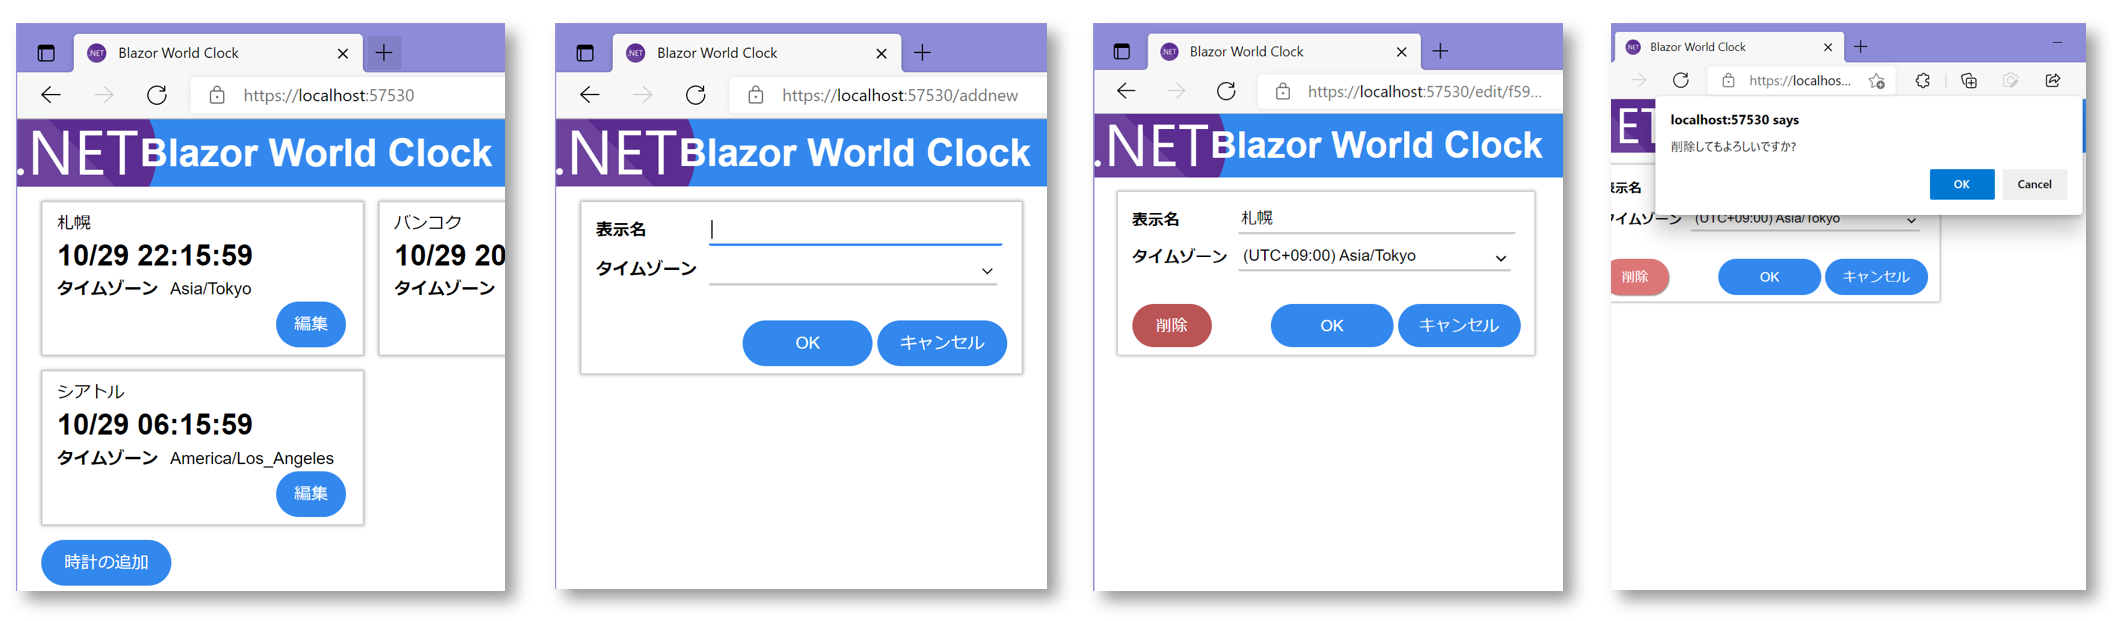
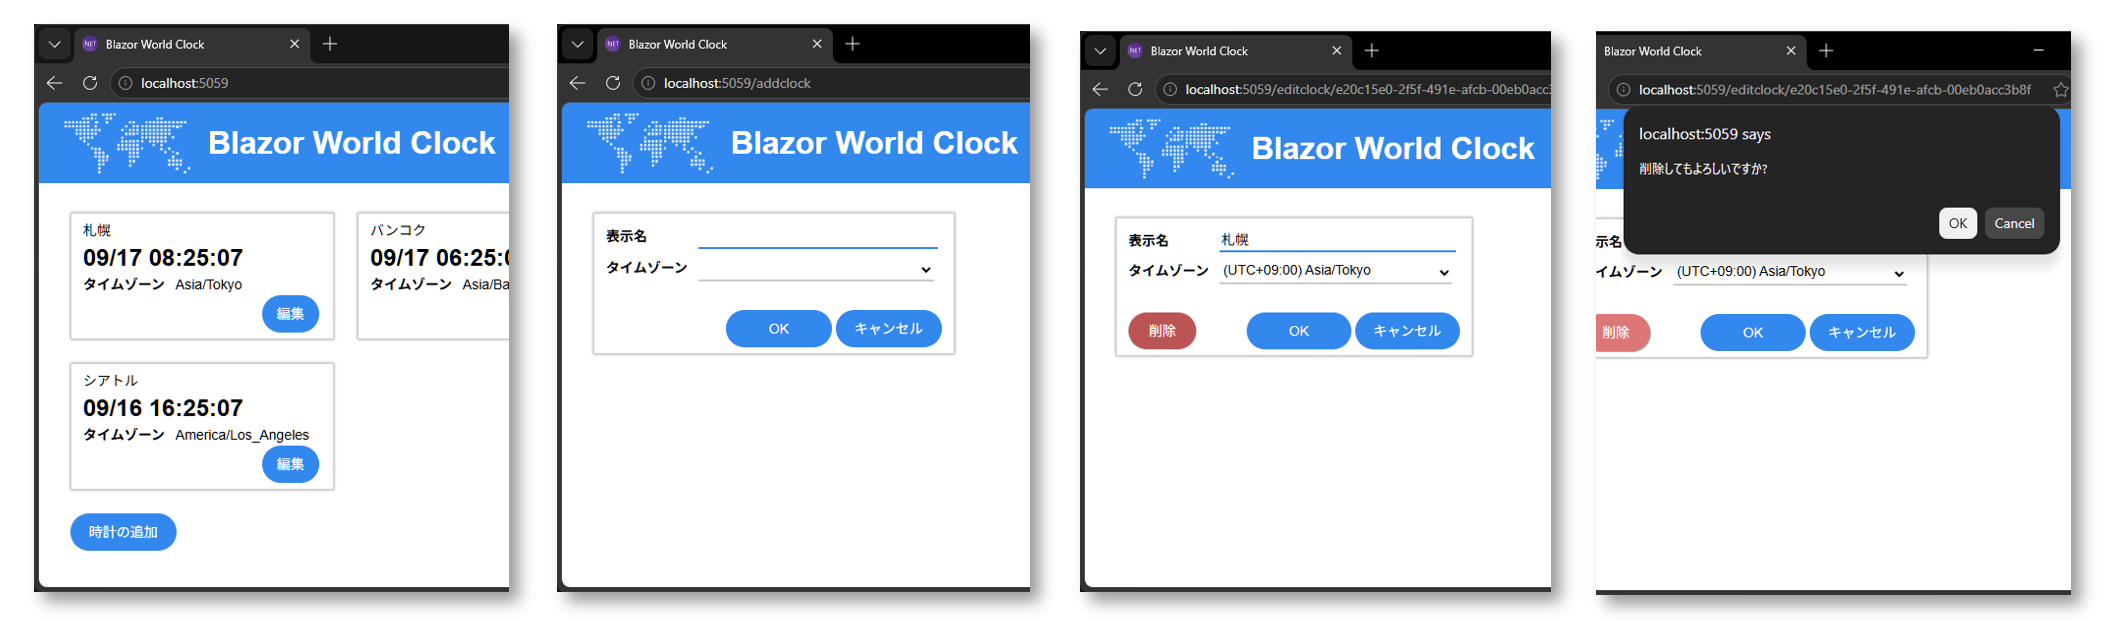
README　更新

diff --git a/README.md b/README.md
@@ -14,7 +14,7 @@
 「Blazor ってどこがメリットなの?」  
 といった疑問にお答えできることを狙いとした、Blazor についての事前評価ができるような、そんな入門レベルの自習書テキストです。
 
-なお、本書が対象としている Blazor のバージョンは v.8.0 です。  
+なお、本書が対象としている Blazor のバージョンは v.10.0 です。  
 (GitHub リポジトリには、本書の旧バージョン対応版も履歴に含まれています)
 
 
@@ -36,11 +36,11 @@
 
 自習書テキストは PDF ファイルとして提供しており、下記リンクから参照できます。
 
-- [📒 Blazorアプリケーションプログラミング自習書-v.8.0.1.pdf](https://jsakamoto.github.io/self-learning-materials-for-blazor-jp/Blazor%E3%82%A2%E3%83%97%E3%83%AA%E3%82%B1%E3%83%BC%E3%82%B7%E3%83%A7%E3%83%B3%E3%83%97%E3%83%AD%E3%82%B0%E3%83%A9%E3%83%9F%E3%83%B3%E3%82%B0%E8%87%AA%E7%BF%92%E6%9B%B8-v.8.0.1.pdf)
+- [📒 Blazorアプリケーションプログラミング自習書-v.10.0.0.pdf](https://jsakamoto.github.io/self-learning-materials-for-blazor-jp/Blazor%E3%82%A2%E3%83%97%E3%83%AA%E3%82%B1%E3%83%BC%E3%82%B7%E3%83%A7%E3%83%B3%E3%83%97%E3%83%AD%E3%82%B0%E3%83%A9%E3%83%9F%E3%83%B3%E3%82%B0%E8%87%AA%E7%BF%92%E6%9B%B8-v.10.0.0.pdf)
 
 この自習書テキストに沿って作業を進めることで、**Blazor WebAssembly プログラミングの主だった構成要素を習得・体験**しつつ、**IDE 支援がどのように役立つか**も体験することができます。
 
-また、本リポジトリの [v.8.0.1 ブランチ](https://github.com/jsakamoto/self-learning-materials-for-blazor-jp/commits/v.8.0.1)には、自習書テキストで解説している 1 ステップを 1 コミットとして履歴を記録したソースコードが収録されています。  
+また、本リポジトリの [v.10.0.0 ブランチ](https://github.com/jsakamoto/self-learning-materials-for-blazor-jp/commits/v.10.0.0)には、自習書テキストで解説している 1 ステップを 1 コミットとして履歴を記録したソースコードが収録されています。  
 適宜ご参照ください。
 
 なお、自習書テキスト PDF および 1 ステップごとのソースコードを収録した Zip ファイルを、[GitHub リポジトリの Release ページ](https://github.com/jsakamoto/self-learning-materials-for-blazor-jp/releases)からダウンロードできます。  
@@ -60,7 +60,8 @@
 - C# によるプログラミングの知識がある
 - 加えて ASP.NET Core によるサーバーサイド Web アプリケーション開発の知識があるとなお可
 
-> ※ Angular, React, Vue などといった JavaScript SPA フレームワークの知識・経験は必ずしも必要としないことと考えていますが、もし何かしら SPA フレームワークの知識・経験があれば、Blazor の理解にも役立つと思います。
+> [!NOTE]  
+> Angular, React, Vue などといった JavaScript SPA フレームワークの知識・経験は必ずしも必要としないことと考えていますが、もし何かしら SPA フレームワークの知識・経験があれば、Blazor の理解にも役立つと思います。
 
 
 🛠 必要な開発環境
@@ -70,7 +71,7 @@
 
 本稿執筆時点で、本自習書による Blazor 開発を実践するにあたり、最低限必要な開発環境は下記のとおりです。
 
-- [.NET 8.0 SDK (8.0.100 かそれ以降)](https://dotnet.microsoft.com/download/dotnet-core/8.0)
+- [.NET 10.0 SDK (10.0.401 かそれ以降)](https://dotnet.microsoft.com/download/dotnet-core/10.0)
 - 上記 SDK が対応しているデスクトップ OS (Windows, macOS, 各種 Linux ディストリビューション)
 - 何らかのテキストエディタ/コードエディタ
 - インターネット接続
@@ -84,12 +85,12 @@
 
 下記リンクをクリックすると、.NET SDK のインストールも既に済んでいる、本自習書のステップ 1 の GitHub Codespaces による開発環境が Web ブラウザで開きます。
 
-[![GitHub Codespaces で開く](https://github.com/codespaces/badge.svg)](https://github.com/codespaces/new/jsakamoto/self-learning-materials-for-blazor-jp/tree/boilerplate%2Fv.8.0.1?quickstart=1)
+[![GitHub Codespaces で開く](https://github.com/codespaces/badge.svg)](https://github.com/codespaces/new/jsakamoto/self-learning-materials-for-blazor-jp/tree/boilerplate%2Fv.10.0.0?quickstart=1)
 
-詳細は[自習書テキスト PDF](https://jsakamoto.github.io/self-learning-materials-for-blazor-jp/Blazor%E3%82%A2%E3%83%97%E3%83%AA%E3%82%B1%E3%83%BC%E3%82%B7%E3%83%A7%E3%83%B3%E3%83%97%E3%83%AD%E3%82%B0%E3%83%A9%E3%83%9F%E3%83%B3%E3%82%B0%E8%87%AA%E7%BF%92%E6%9B%B8-v.8.0.1.pdf) の「開発環境」の章をご参照ください。
+詳細は[自習書テキスト PDF](https://jsakamoto.github.io/self-learning-materials-for-blazor-jp/Blazor%E3%82%A2%E3%83%97%E3%83%AA%E3%82%B1%E3%83%BC%E3%82%B7%E3%83%A7%E3%83%B3%E3%83%97%E3%83%AD%E3%82%B0%E3%83%A9%E3%83%9F%E3%83%B3%E3%82%B0%E8%87%AA%E7%BF%92%E6%9B%B8-v.10.0.0.pdf) の「開発環境」の章をご参照ください。
 
 > [!NOTE]  
-> GitHub Codespaces は最長 60 分/月の無料枠がある有償サービスです。料金体系について詳しくは[公式サイト](https://github.co.jp/features/codespaces)を参照ください。
+> GitHub Codespaces は最長 2コア x 60 分/月の無料枠がある有償サービスです。料金体系について詳しくは[公式サイト](https://github.co.jp/features/codespaces)を参照ください。
 
 ### Visual Studio Code を使う
 
@@ -102,21 +103,21 @@
 > [!NOTE]  
 > C# Dev Kit 拡張の利用にあたっては、Visual Studio 相当の使用条件があります。
 
-### Windows 上で Visual Studio 2022 を使う
+### Windows 上で Visual Studio 2026 を使う
 
 Windows PC をお使いの場合は、統合開発環境である Visual Studio の使用もお勧めです。
 
-- [Visual Studio 2022 - 17.8.0 以降](https://visualstudio.microsoft.com/vs/)
+- [Visual Studio 2026 - 18.10.0 以降](https://visualstudio.microsoft.com/vs/)
     - "ASP.NET と Web 開発" ワークロードが選択されていること
 
 > [!NOTE]  
-> ※1 - Visual Studio 2022 は、無償利用可能な (但しライセンス条項に違反しない場合) Community Edition で可。  
+> ※1 - Visual Studio 2026 は、無償利用可能な (但しライセンス条項に違反しない場合) Community Edition で可。  
 > ※2 - Visual Studio は、複数のバージョンやインスタンスを、ひとつの OS 上に互いの干渉なくいくつもインストールして使用することが可能です。
 
  🤔 自習書作成の背景
 ----------------------------------------
 
-Blazor は、SPA を含めた各種 Web アプリケーション開発のシーンにおいて、もちろん決して ["銀の弾丸"](https://kotobank.jp/word/%E9%8A%80%E3%81%AE%E5%BC%BE%E4%B8%B8-248402) ではありません。  
+Blazor は、SPA を含めた各種 Web アプリケーション開発のシーンにおいて、もちろん決して ["銀の弾丸"](https://ja.wikipedia.org/wiki/%E9%8A%80%E3%81%AE%E5%BC%BE%E3%81%AA%E3%81%A9%E3%81%AA%E3%81%84) ではありません。  
 しかしながら Blazor は、適合する案件や開発者であれば、**開発の負担を減らし、よりよい生産性向上をもたらす可能性**を秘めています。
 
 そこでこの Blazor の可能性をより多くの開発者に体験していただき、Blazor WebAssembly を事前評価していただければと考え、この「Blazor WebAssembly アプリケーションプログラミング自習書 (自習教材)」を作成しました。
